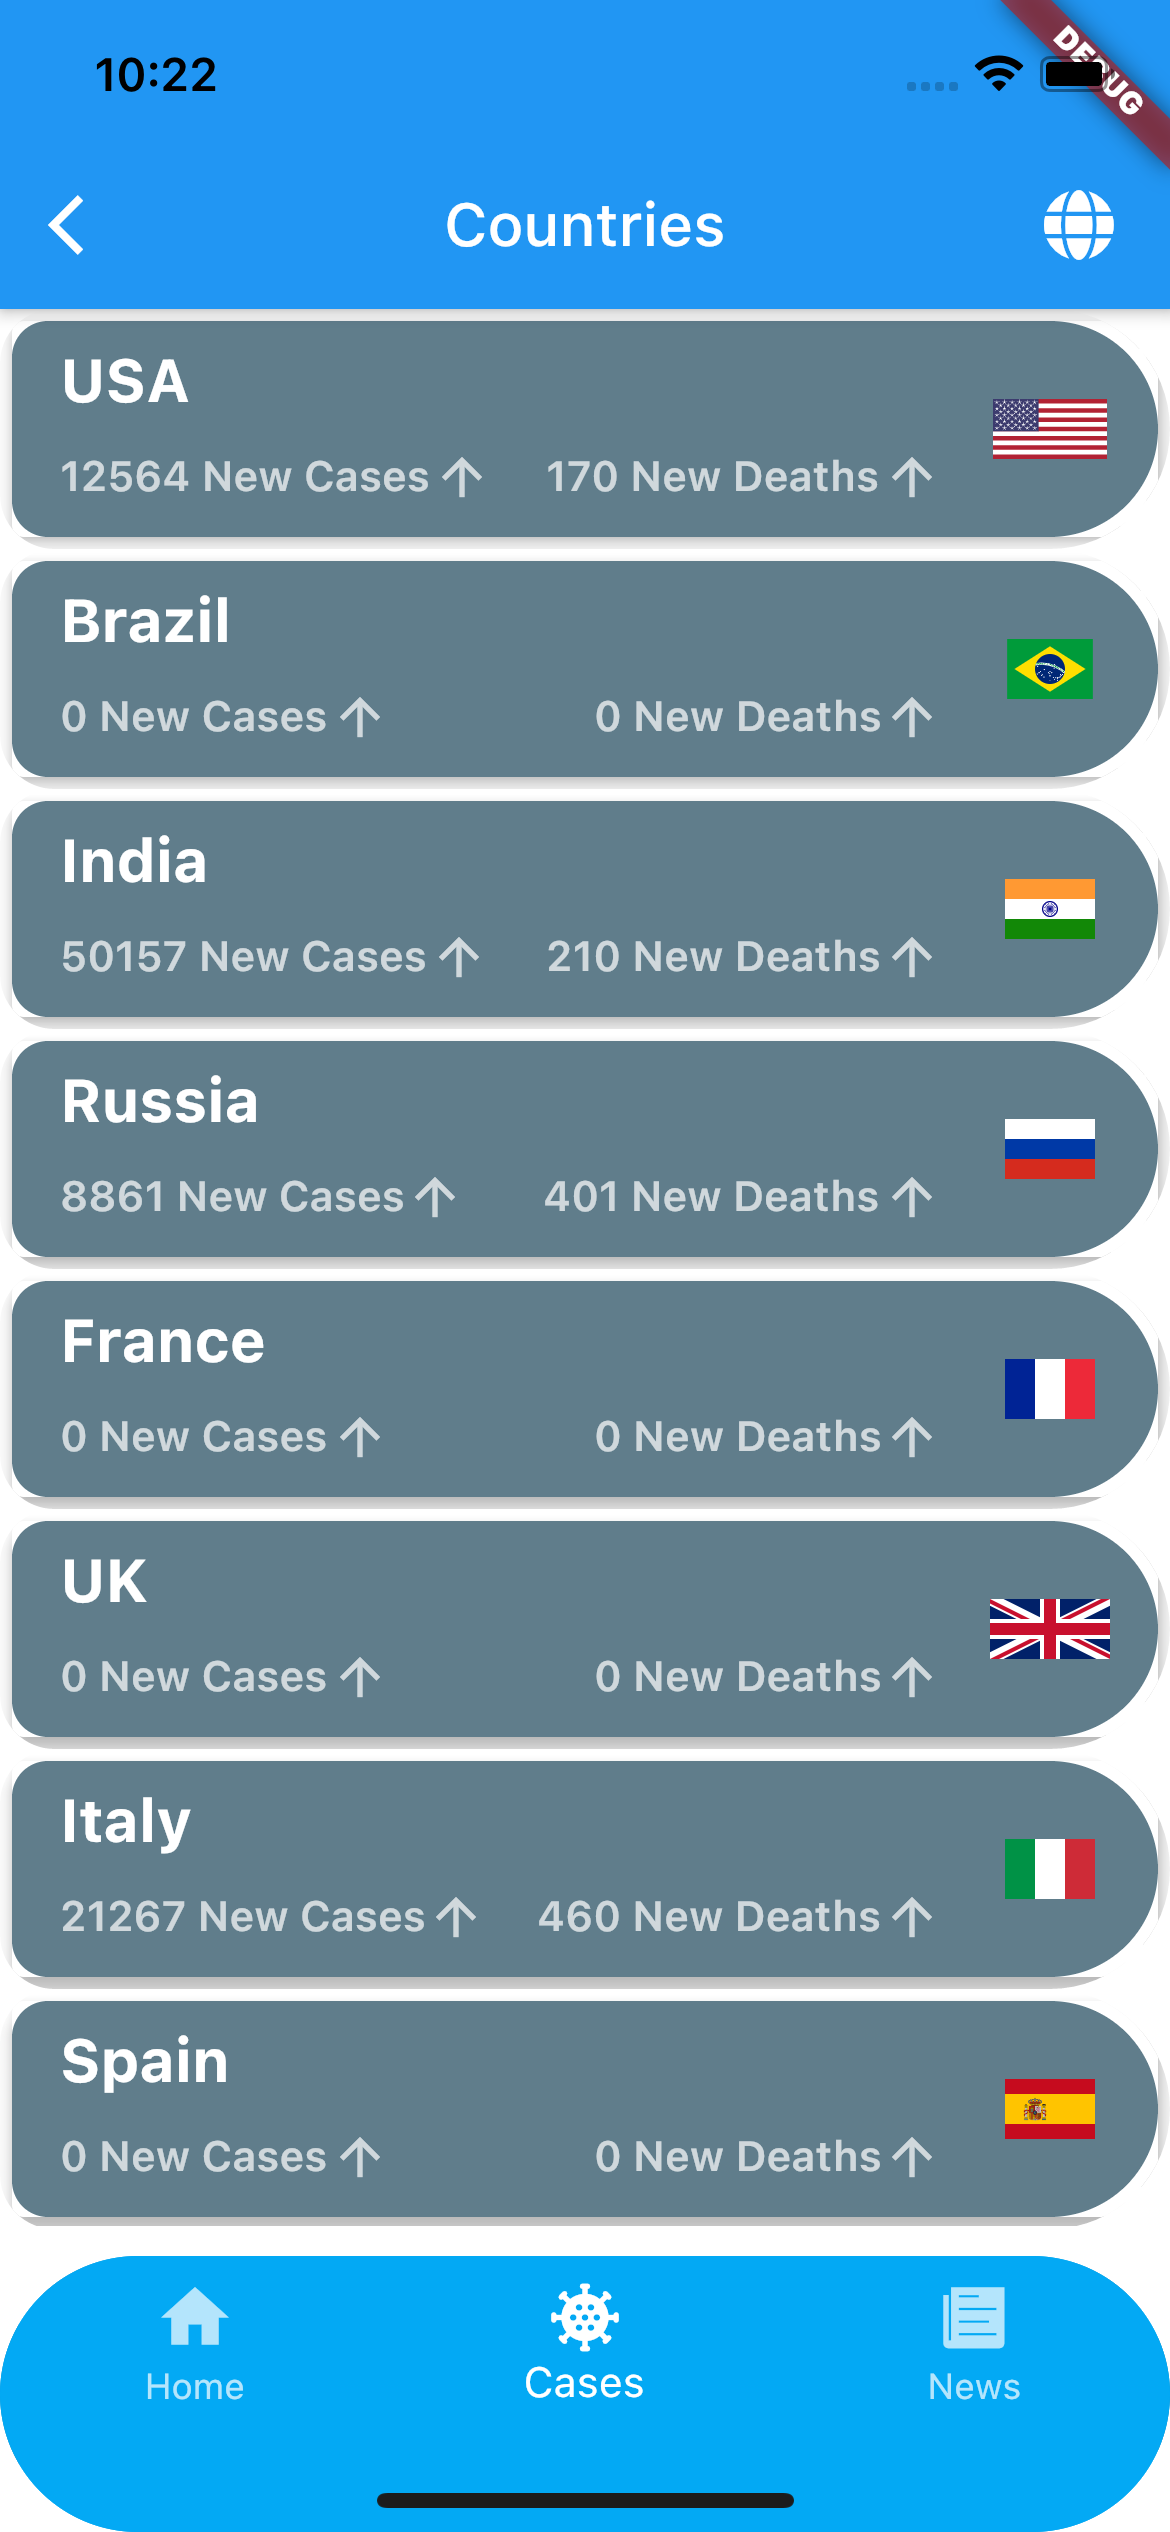
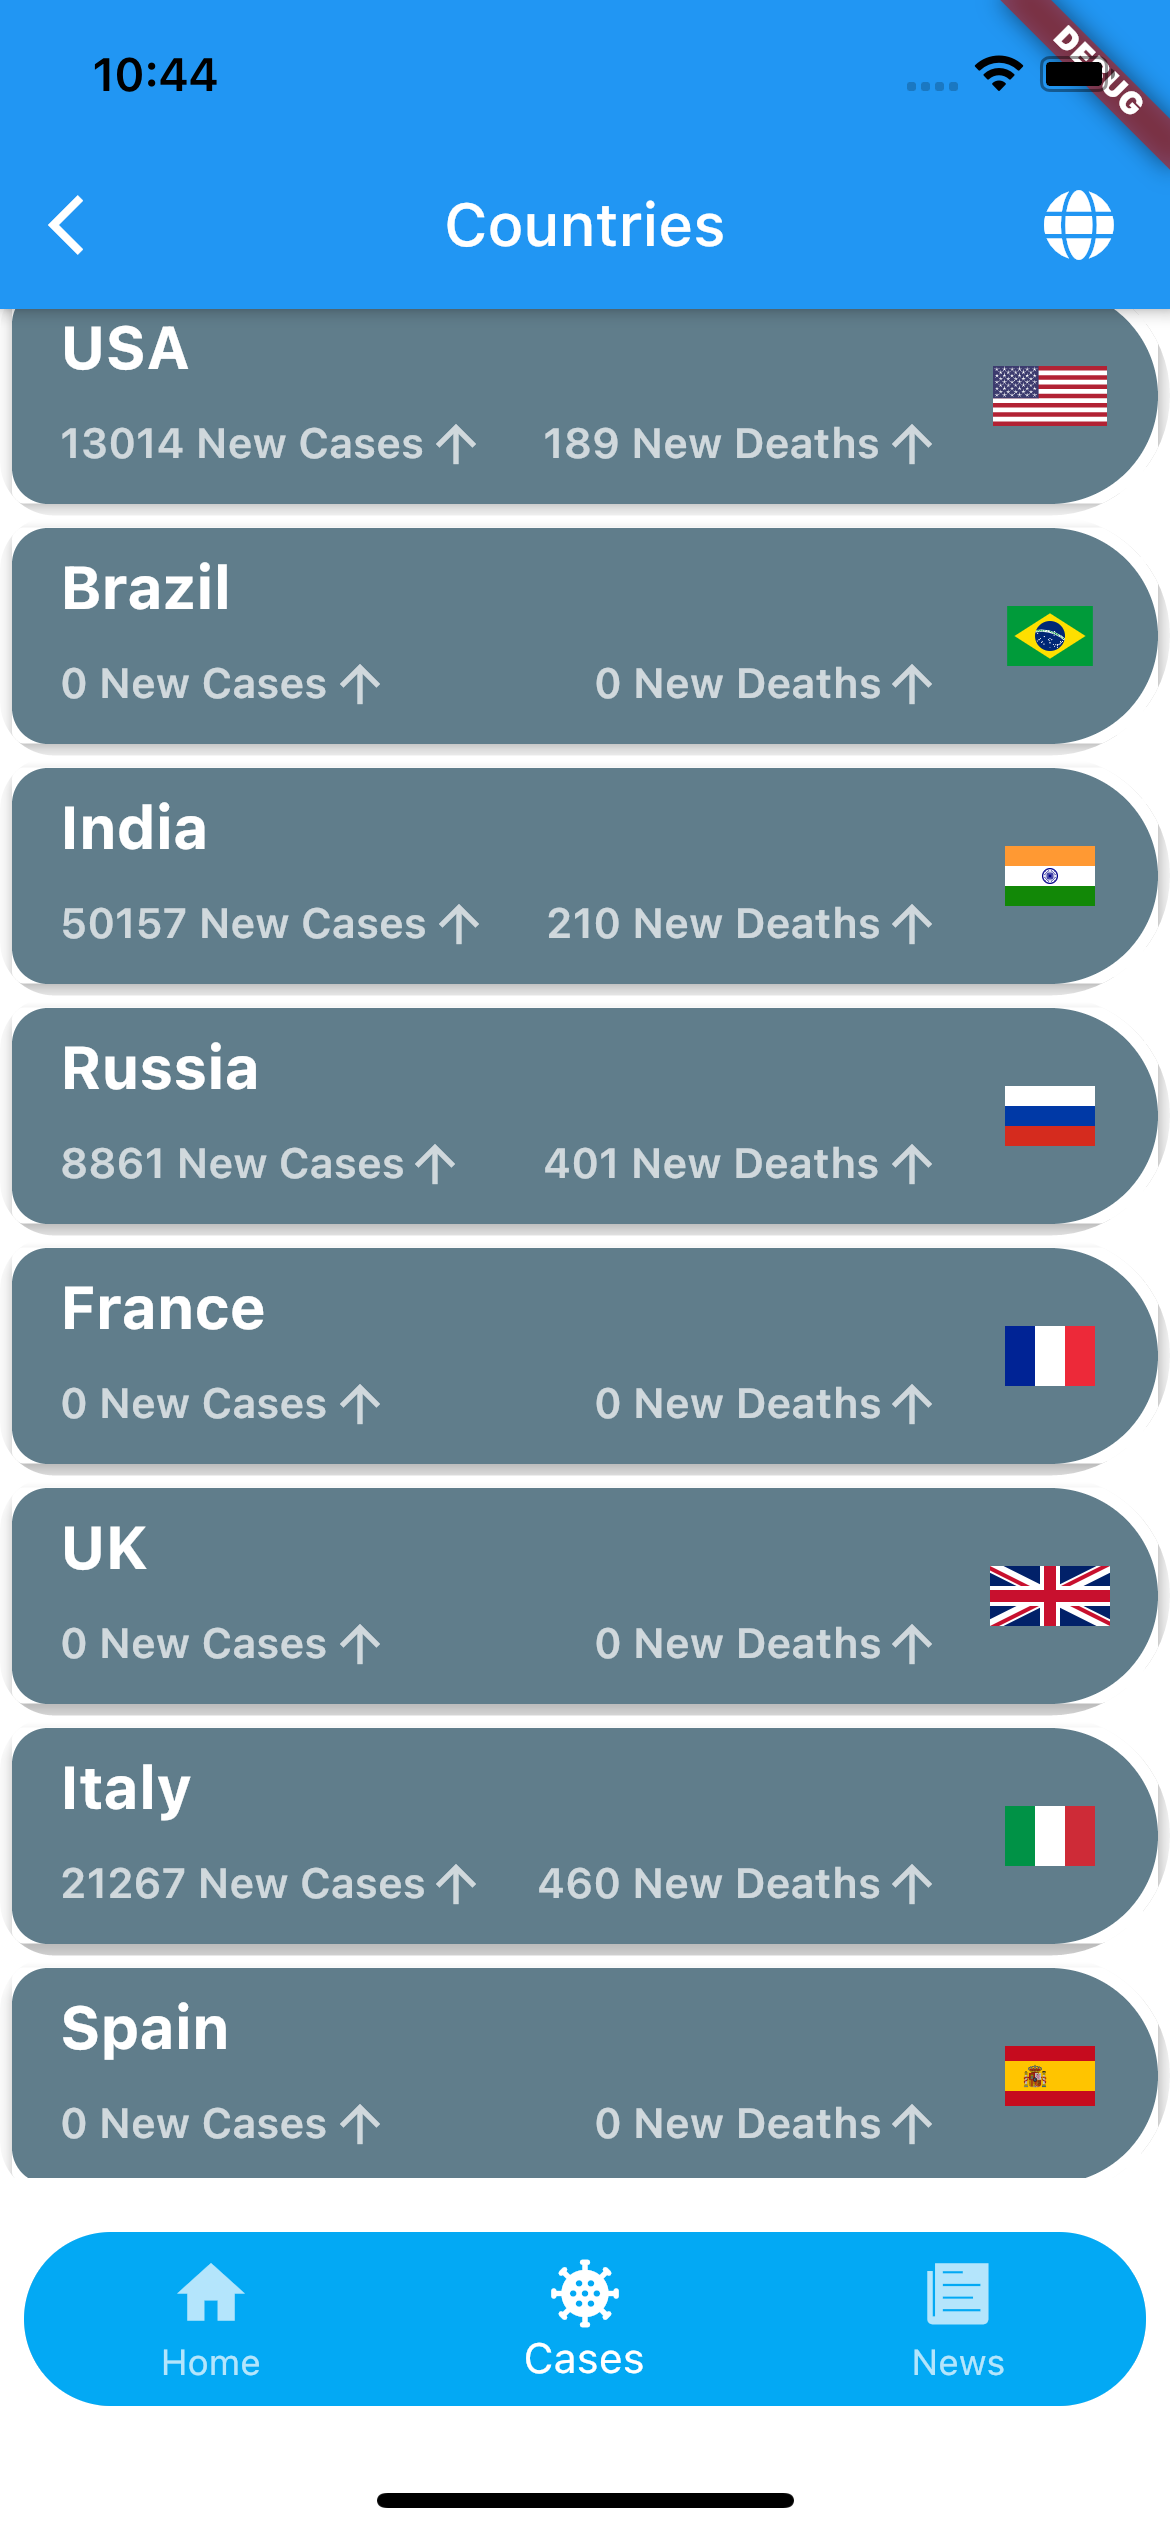
readme

diff --git a/lib/widgets/BottomBar.dart b/lib/widgets/BottomBar.dart
@@ -10,49 +10,56 @@ class BottomBar extends StatelessWidget {
 
   @override
   Widget build(BuildContext context) {
-    return ClipRRect(
-      borderRadius: BorderRadius.circular(60.0),
-      child: Container(
-        color: Colors.lightBlue,
-        child: BottomNavigationBar(
-          elevation: 5,
-          iconSize: 27,
-          backgroundColor: Colors.lightBlue,
-          unselectedItemColor: Colors.white70,
-          selectedItemColor: Colors.white,
-          onTap: (current) {
-            print(current);
-            print(activeScreen);
+    return SafeArea(
+      child: ClipRRect(
+        borderRadius: BorderRadius.circular(80.0),
+        child: Container(
+          padding: EdgeInsets.all(2),
+          margin: EdgeInsets.all(6),
+          color: Colors.transparent,
+          child: ClipRRect(
+            borderRadius: BorderRadius.circular(80.0),
+            child: BottomNavigationBar(
+              elevation: 5,
+              iconSize: 27,
+              backgroundColor: Colors.lightBlue,
+              unselectedItemColor: Colors.white70,
+              selectedItemColor: Colors.white,
+              onTap: (current) {
+                print(current);
+                print(activeScreen);
 
-            if (current == activeScreen) {
-              activeScreen = current;
-              return;
-            }
-            activeScreen = current;
-            switch (current) {
-              case 0:
-                Navigator.pushNamed(context, '/');
-                break;
-              case 1:
-                Navigator.pushNamed(context, '/cases');
-                break;
-              case 2:
-                Navigator.pushNamed(context, '/news');
-                break;
-            }
-          },
-          currentIndex: current,
-          // this will be set when a new tab is tapped
-          items: [
-            BottomNavigationBarItem(
-              icon: new Icon(Icons.home),
-              label: 'Home',
+                if (current == activeScreen) {
+                  activeScreen = current;
+                  return;
+                }
+                activeScreen = current;
+                switch (current) {
+                  case 0:
+                    Navigator.pushNamed(context, '/');
+                    break;
+                  case 1:
+                    Navigator.pushNamed(context, '/cases');
+                    break;
+                  case 2:
+                    Navigator.pushNamed(context, '/news');
+                    break;
+                }
+              },
+              currentIndex: current,
+              // this will be set when a new tab is tapped
+              items: [
+                BottomNavigationBarItem(
+                  icon: new Icon(Icons.home),
+                  label: 'Home',
+                ),
+                BottomNavigationBarItem(
+                    icon: new Icon(Icons.coronavirus), label: "Cases"),
+                BottomNavigationBarItem(
+                    icon: Icon(CupertinoIcons.news_solid), label: 'News')
+              ],
             ),
-            BottomNavigationBarItem(
-                icon: new Icon(Icons.coronavirus), label: "Cases"),
-            BottomNavigationBarItem(
-                icon: Icon(CupertinoIcons.news_solid), label: 'News')
-          ],
+          ),
         ),
       ),
     );

diff --git a/lib/screens/NewsScreen.dart b/lib/screens/NewsScreen.dart
@@ -1,10 +1,10 @@
 import 'package:flutter/material.dart';
+import 'package:font_awesome_flutter/font_awesome_flutter.dart';
 import 'package:provider/provider.dart';
 import 'package:tracker/LaunchUrl.dart';
 import 'package:tracker/data/NewsData.dart';
 import 'package:tracker/models/NewsResponse.dart';
 import 'package:tracker/widgets/BottomBar.dart';
-
 
 class NewsScreen extends StatelessWidget {
   @override
@@ -17,6 +17,15 @@ class NewsScreen extends StatelessWidget {
       child: Scaffold(
         appBar: AppBar(
           title: Text("News Feed"),
+          actions: [
+            Padding(
+              padding: const EdgeInsets.only(right: 10.0),
+              child: Icon(
+                FontAwesomeIcons.solidNewspaper,
+                color: Colors.white70,
+              ),
+            )
+          ],
         ),
         body: FutureBuilder<List<Articles>>(
           future: Provider.of<NewsData>(context).getNews(),

diff --git a/README.md b/README.md
@@ -15,21 +15,21 @@ A few resources used in this project:
 > Note : use your own API key 
 
 <br>
-App State is managed using [Provider Package](https://pub.dev/packages/provider)  
-<br><br>
+
+### App State is managed using [Provider Package](https://pub.dev/packages/provider)  
+<br>
 
 ### <u>Home Screen</u>
-<img src = 'images/home_screen.png' width=200 height = 450/>
-<br><br>  
+<img src = 'images/home.png' width=200 height = 450/>
+<br>
 
 ### <u>Pie Chart Screen</u>
 <img src = 'images/pie.png' width=200 height = 450/>  
-<br><br>  
+<br>
 
 ### <u>Cases Screen</u>
 <img src = 'images/cases.png' width=200 height = 450/>
-<br><br>  
+<br>
 
 ### <u>News Screen</u>
-
 <img src = 'images/news.png' width=200 height = 450/>
